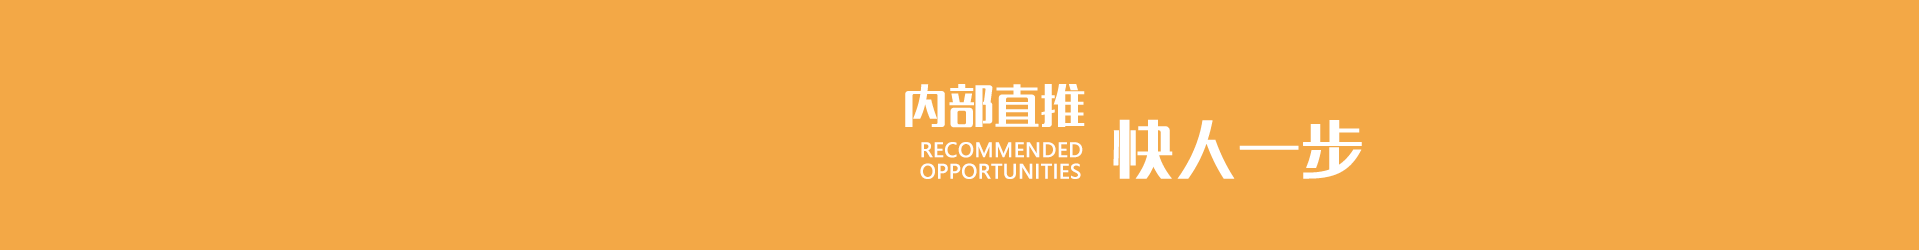
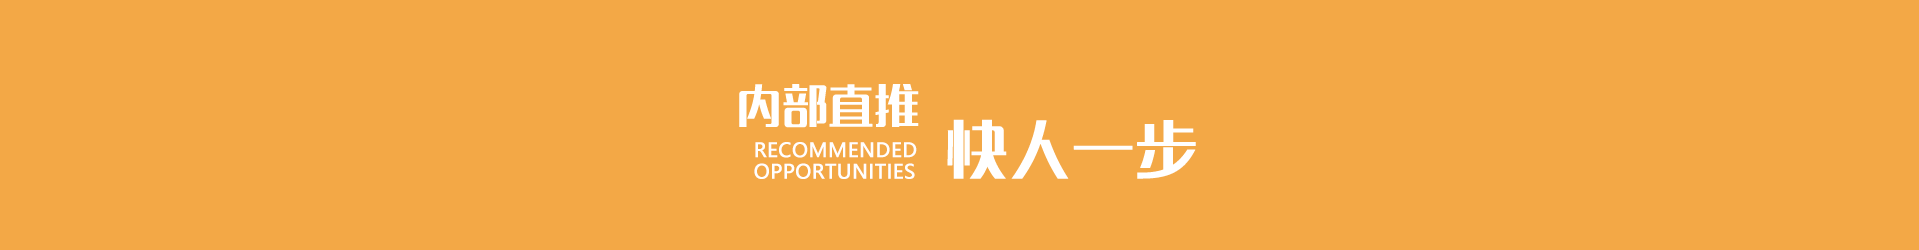
1

Changed region(s): [[0.3689, 0.336, 0.7071, 0.728]]

diff --git a/css/task8/task2.css b/css/task8/task2.css
@@ -20,7 +20,7 @@
 @media (max-width: 992px) {
 
     .header {
-        width: 96%;
+        width: 92%;
         margin: 0 auto;
     }
 
@@ -94,6 +94,7 @@
     margin: 0 auto;
     display: flex;
     justify-content: space-between;
+    align-items: center;
     
 }
 
@@ -147,16 +148,6 @@
 
 }
 
-@media (max-width: 992px) {
-
-    .bg-light {
-        padding-left: 0;
-        padding-right: 0;
-        
-        
-    }
-
-}
 
 
 .row {
@@ -167,6 +158,58 @@
 
 .banner {
     width: 100%;
+    overflow: hidden;
+}
+
+@media (max-width: 768px) {
+
+    .banner {
+      height: 17vh;
+      object-fit: cover;
+    }
+}
+
+
+@media (max-width: 768px) {
+
+    .to {
+      width: 70px;
+      height: 36px;
+        
+    }
+
+}
+
+@media (max-width: 768px) {
+
+    .navbar-light .navbar-toggler-icon {
+      width: 20px;
+      height: 20px;
+        
+    }
+
+}
+
+@media (max-width: 768px) {
+
+    .navbar-light .navbar-toggler {
+      width: 36px;
+      height: 30px;
+      display: flex;
+      justify-content: center;
+      align-content: center;
+        
+    }
+
+}
+
+@media (max-width: 768px) {
+
+    .bg-light {
+      padding: 0.5rem;
+        
+    }
+
 }
 
 
@@ -188,23 +231,41 @@
     padding-right: 0; 
     padding-left: 0;
     height: 90%;
+
+   
 }
 
 .lb1 {
     display: flex;
     align-items: center;
     flex-direction: column;
+
 }
+
 
 @media (max-width: 576px) {
 
     .lb1 {
        overflow: auto;
        height: 280px;
-       
-    }
 
+    }
 }
+
+
+@media (max-width: 576px) {
+
+    .lb1::-webkit-scrollbar {
+       display: none;
+
+    }
+}
+
+
+
+
+
+
 
 .lb1 span {
     color: #29b078;

diff --git a/css/task8/task2.html b/css/task8/task2.html
@@ -36,18 +36,14 @@
             <!-- 导航栏开始-->
             <div class=dhl>
                 <div class="dhl1">
-                    <img src="./img/wz.png">
+                    <img class="to" src="./img/wz.png">
 
                     <button class="navbar-toggler" type="button" data-toggle="collapse"
                         data-target="#navbarSupportedContent" aria-controls="navbarSupportedContent"
                         aria-expanded="false" aria-label="Toggle navigation">
                         <span class="navbar-toggler-icon"></span>
                     </button>
-
                 </div>
-
-
-
 
                 <div class="collapse navbar-collapse" id="navbarSupportedContent">
                     <ul class="navbar-nav mr-auto">
@@ -88,9 +84,6 @@
                 <span><strong>合作企业</strong></span>
                   </div>
                 <div class="lb1">
-
-
-                   
 
                     <div class="select">   
                         <i  class="circle"></i>

diff --git a/css/task8/cs.html b/css/task8/cs.html
@@ -1,0 +1,42 @@
+<!DOCTYPE html>
+<html lang="en">
+<head>
+    <meta charset="UTF-8">
+    <meta name="viewport" content="width=device-width, initial-scale=1.0">
+    <meta http-equiv="X-UA-Compatible" content="ie=edge">
+    <title>Document</title>
+    <style>
+.main {
+
+display: flex;
+
+border: 1px solid black;
+
+width: 300px;
+
+height: 300px;
+
+}
+
+.content {
+
+align-self: center;
+
+width: 100px;
+
+height: 100px;
+
+background: black;
+
+}
+    
+    </style>
+</head>
+<body>
+    <div class="main">
+
+        <div class="content"></div>
+    
+    </div>
+</body>
+</html>
